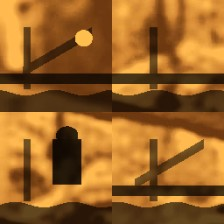
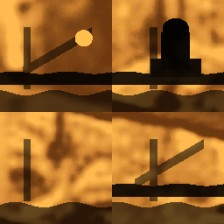
A figure reads in the boat's first wheelhouse window

diff --git a/models/src/build_assets.py b/models/src/build_assets.py
@@ -227,12 +227,13 @@ def boat_window_texture():
   shade=.34+.66*light**1.55
   # Console silhouettes and a chair break up the photographic amber interior.
   desk=.62 if v<(.17+.025*math.sin(u*12+tile)) else 0.0
-  band=.72 if tile in (1,2,3) and .25<v<.34 else 0.0
+  band=.87 if tile in (1,2,3) and .24<v<(.35+.012*math.sin(u*13)) else 0.0
   upright=.56 if abs(u-(.24+.13*(tile%2)))<.035 and .20<v<.76 else 0.0
-  chair=.84 if tile==0 and abs(u-.60)<.13 and .35<v<.76 else 0.0
-  chair_head=.80 if tile==0 and ((u-.60)/.10)**2+((v-.79)/.085)**2<1 else 0.0
+  chair=.95 if tile==3 and abs(u-.57)<.13 and .38<v<.71 else 0.0
+  shoulders=.92 if tile==3 and abs(u-.57)<.23 and .31<v<.48 else 0.0
+  chair_head=.97 if tile==3 and ((u-.57)/.12)**2+((v-.74)/.10)**2<1 else 0.0
   diagonal=.52 if tile in (1,2) and abs(v-(.24+.58*u))<.043 and .2<u<.82 else 0.0
-  shade*=1-max(desk,band,upright,chair,chair_head,diagonal)
+  shade*=1-max(desk,band,upright,chair,shoulders,chair_head,diagonal)
   lamp=tile==2 and ((u-.75)/.08)**2+((v-.66)/.075)**2<1
   if lamp:pixels.extend((1.0,.75,.31,1))
   else:pixels.extend((raw[i]*shade,raw[i+1]*shade,raw[i+2]*shade,1))
@@ -860,7 +861,7 @@ bpy.context.scene.view_settings.view_transform='AgX'
 bpy.context.scene.view_settings.look='AgX - Medium High Contrast'
 bpy.context.scene.view_settings.exposure=-1.1 if NAME in ('box','seabed') else -.3
 bpy.context.scene.render.resolution_percentage=100;bpy.context.scene.render.image_settings.file_format='PNG'
-preview=os.path.join(ROOT,'preview','boat_v72.png' if NAME=='boat' else NAME+'.png');os.makedirs(os.path.dirname(preview),exist_ok=True)
+preview=os.path.join(ROOT,'preview','boat_v73.png' if NAME=='boat' else NAME+'.png');os.makedirs(os.path.dirname(preview),exist_ok=True)
 bpy.context.scene.render.filepath=preview;bpy.ops.render.render(write_still=True)
 print('ASSET_PREVIEW',preview)
 if NAME=='boat':
